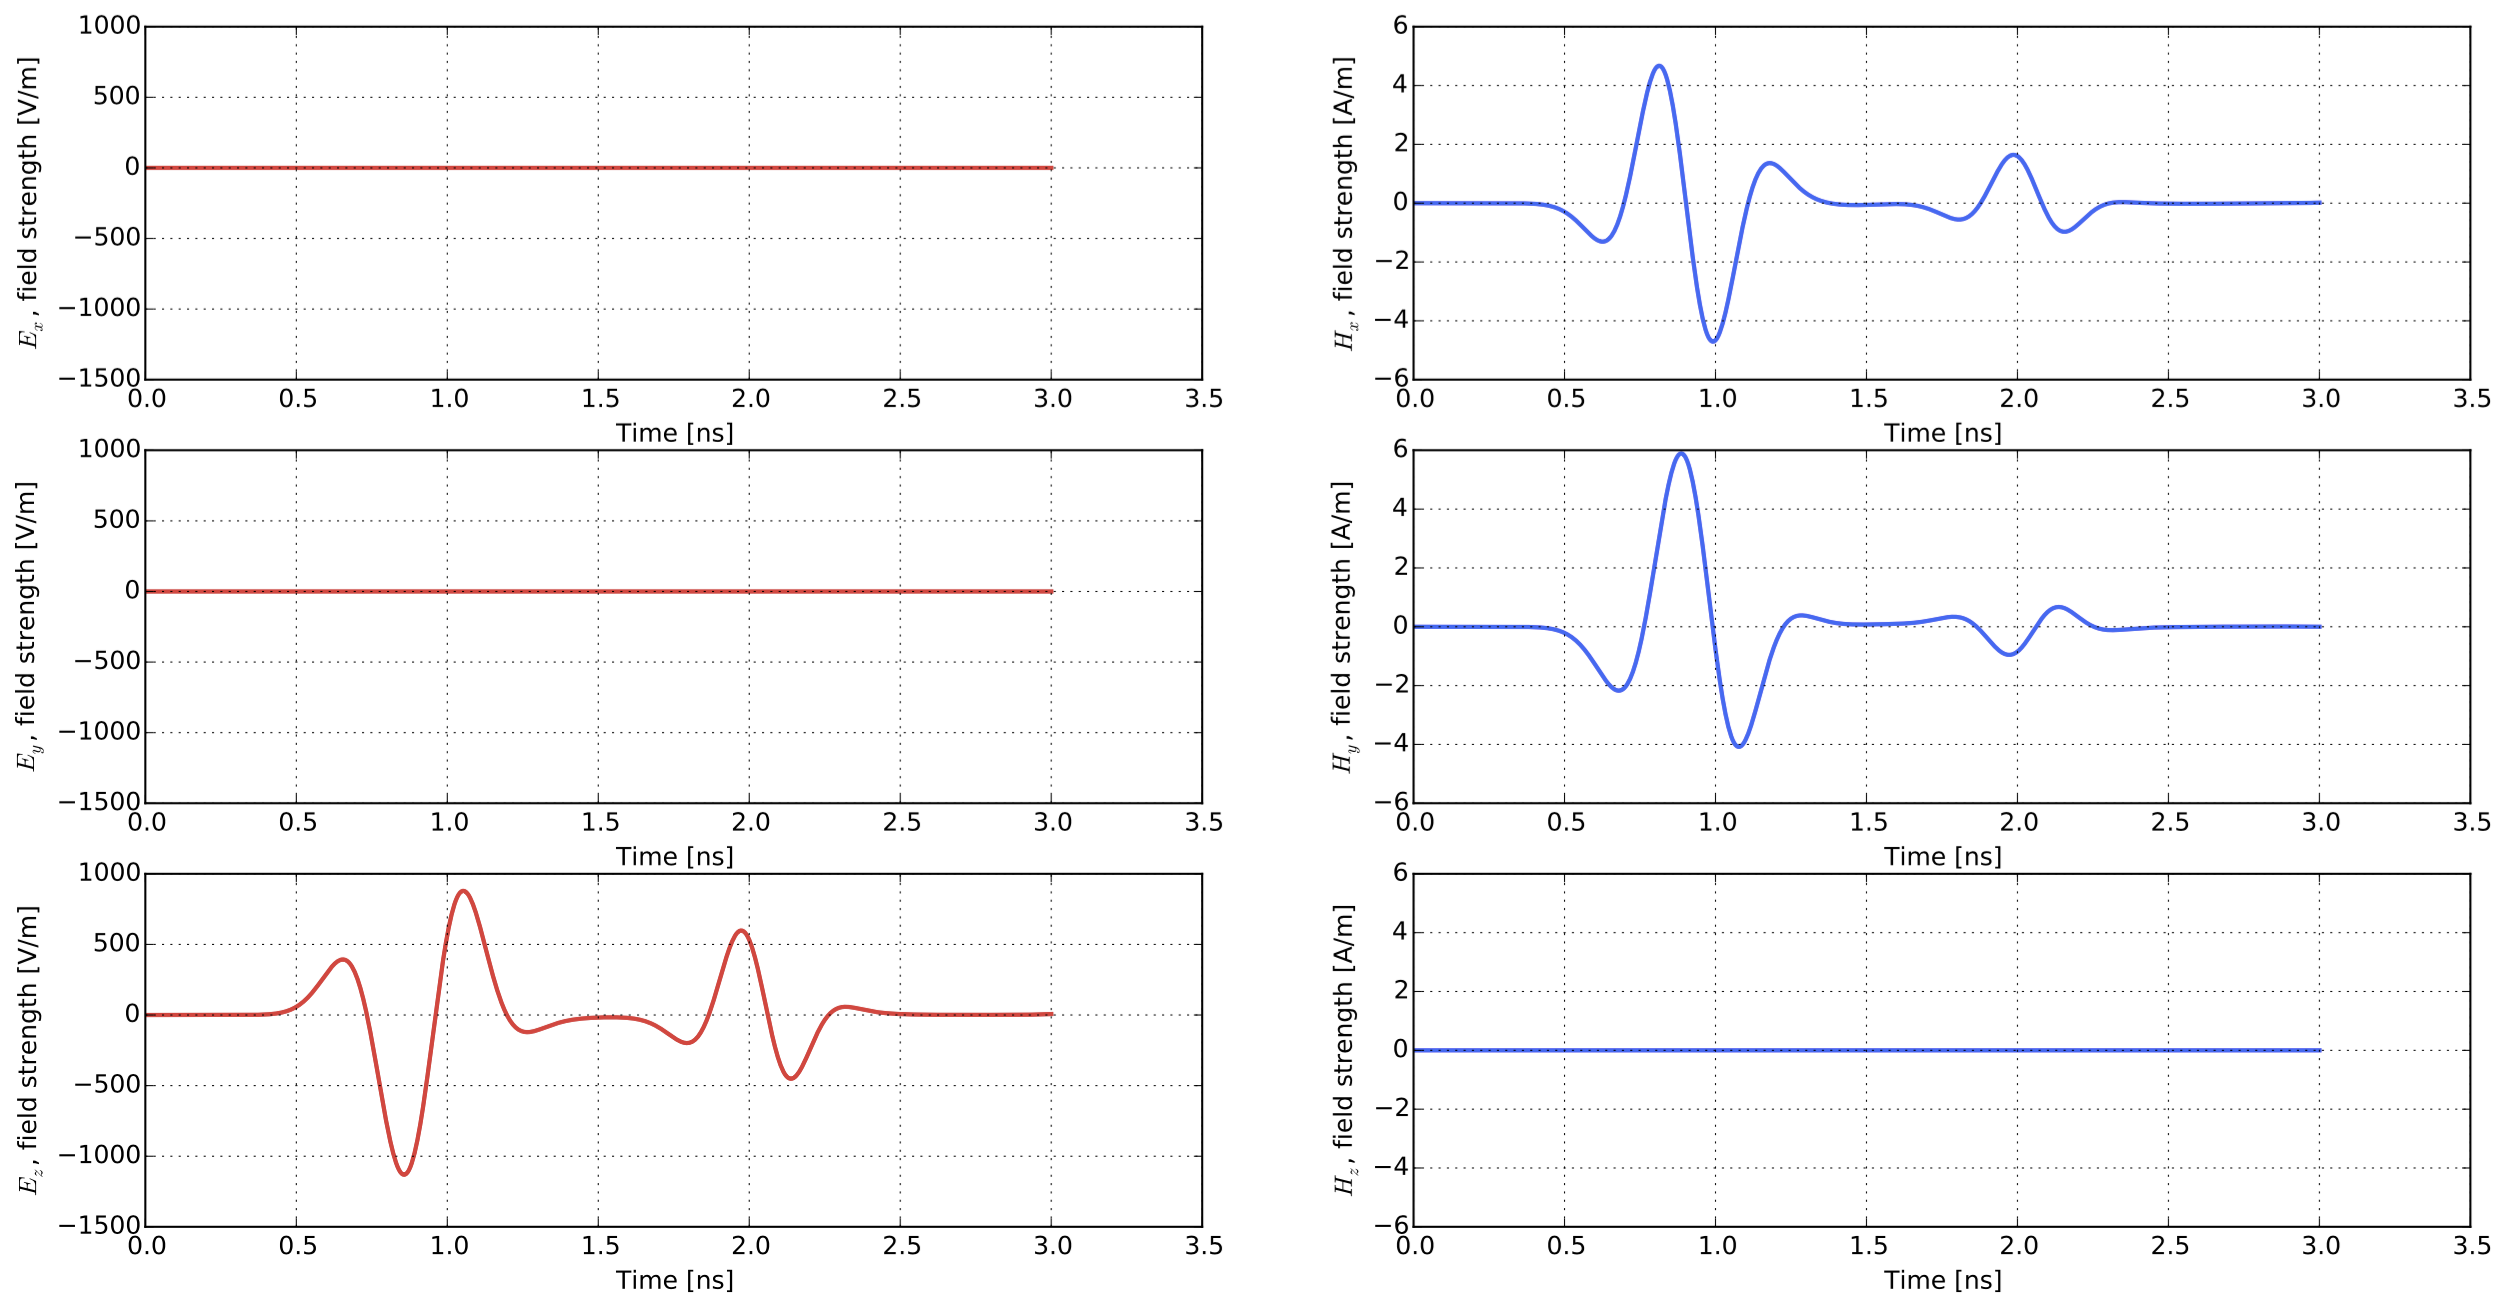
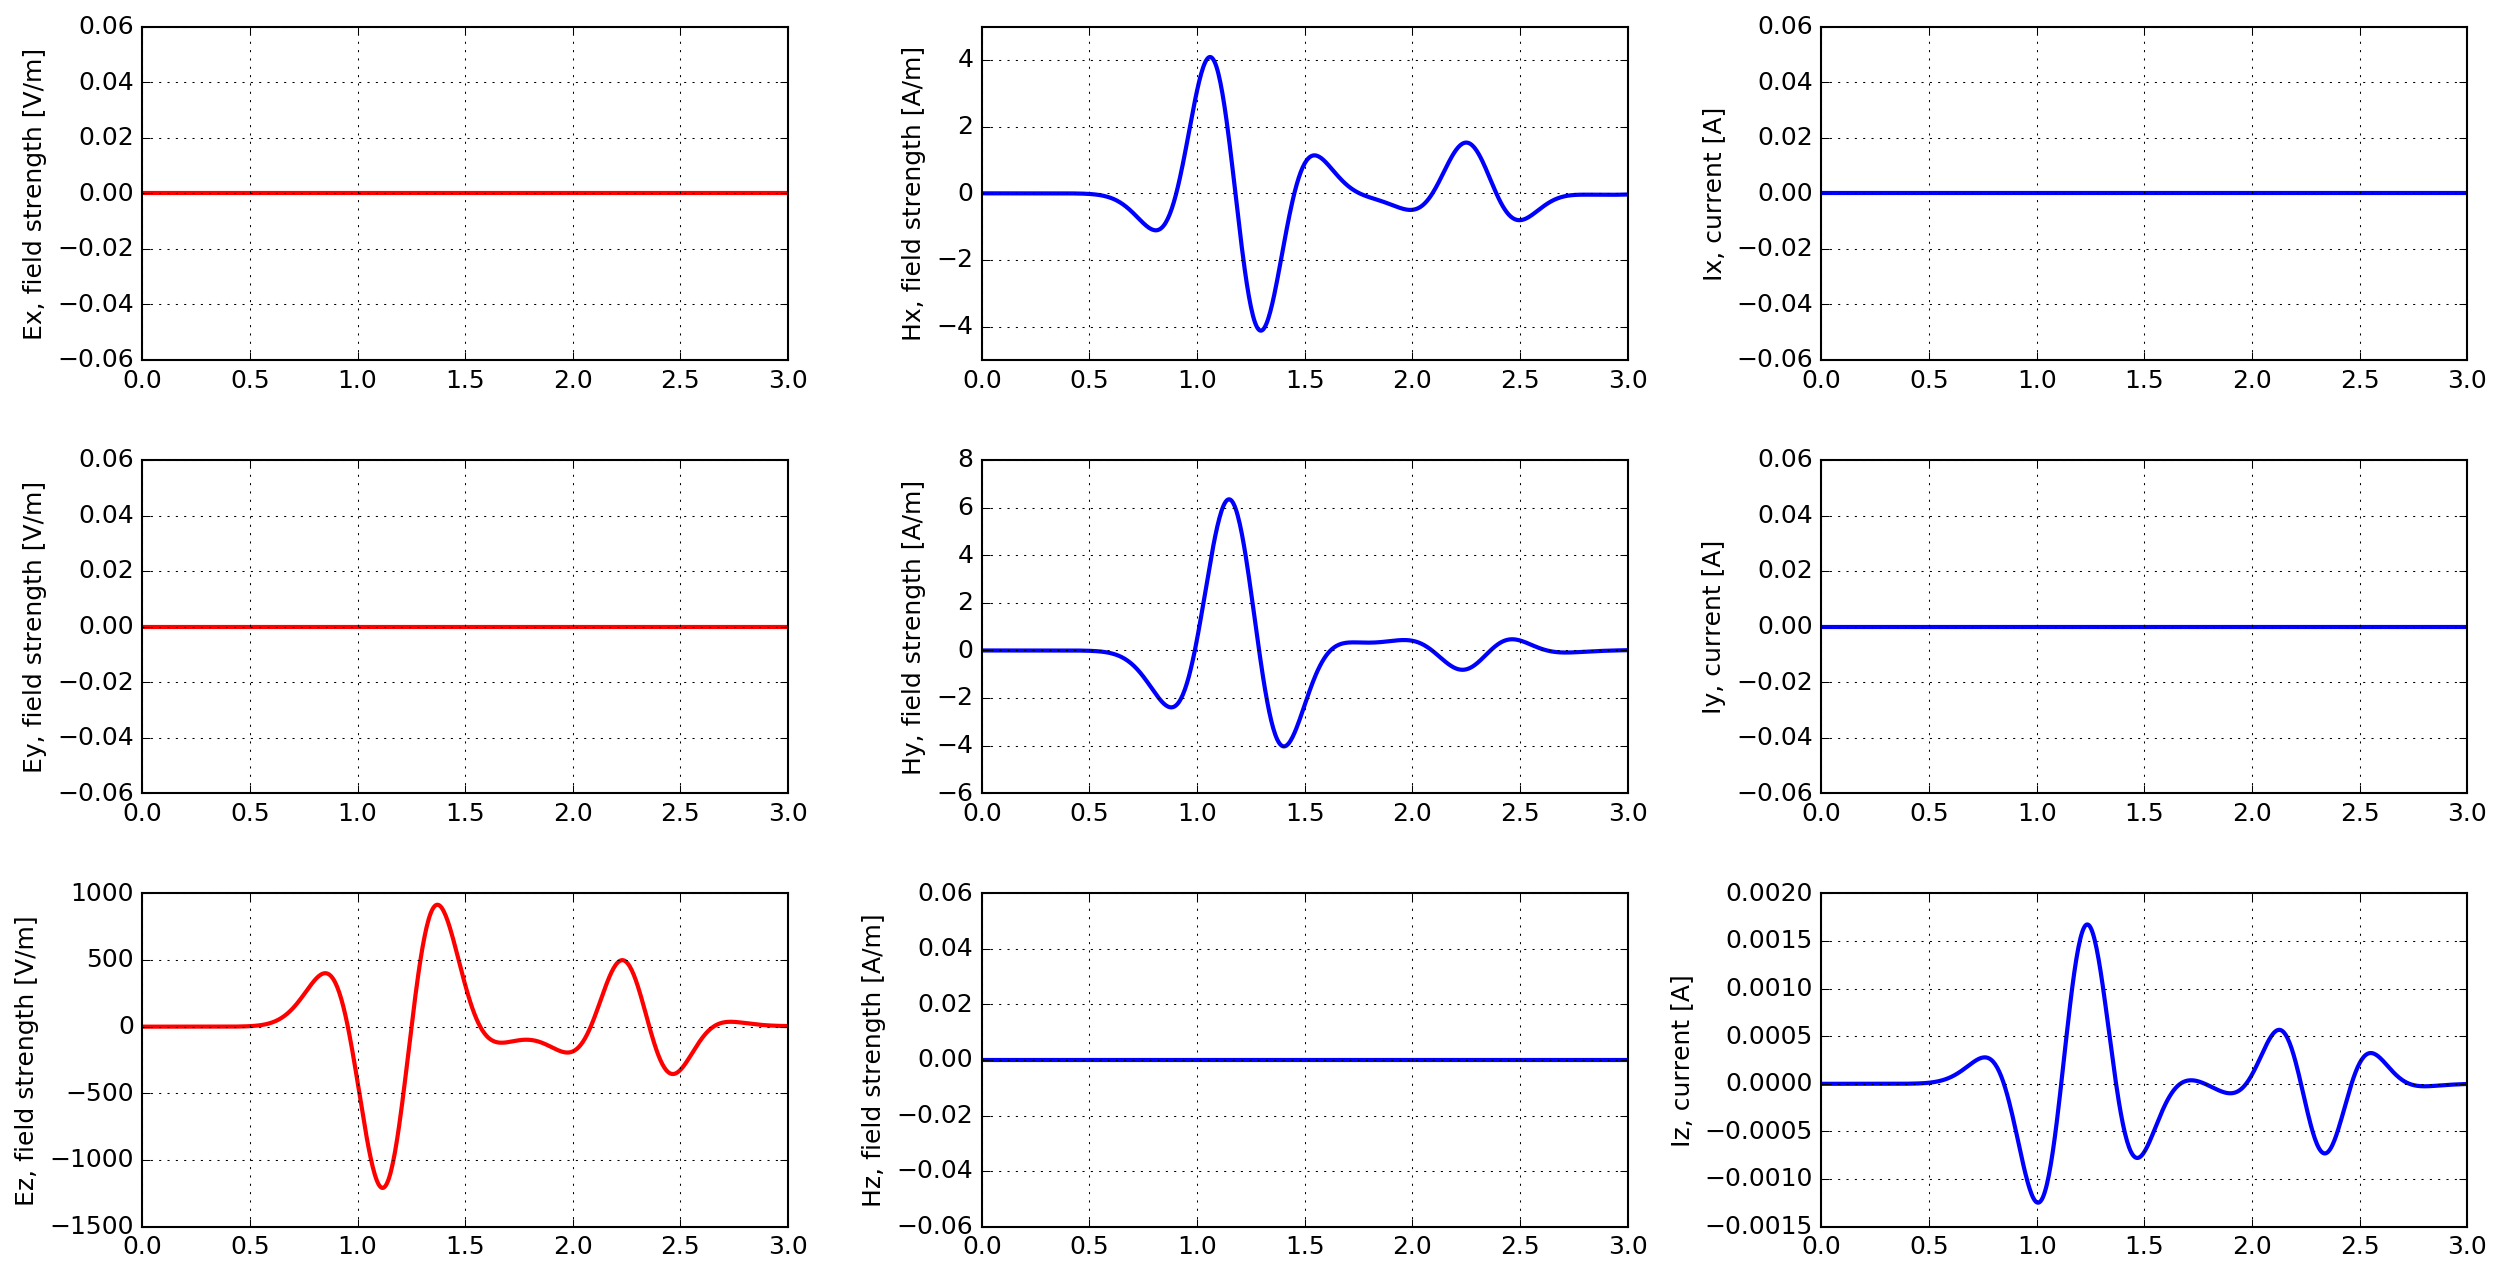
Updated example plot of A-scan to include currents.

diff --git a/docs/source/examples_simple_2D.rst b/docs/source/examples_simple_2D.rst
@@ -121,7 +121,7 @@ You should have produced an output file ``cylinder_Ascan_2D.out``. You can view 
 
     python -m tools.plot_Ascan cylinder_Ascan_2D.out
 
-:numref:`cylinder_Ascan_results` shows the time history of the electric and magnetic field components at the receiver location. The :math:`E_z` field component can be converted to voltage which represents the A-scan (trace). The initial part of the signal (<1.5 ns) represents the direct wave from transmitter to receiver. Then comes the reflected wavelet from the metal cylinder.
+:numref:`cylinder_Ascan_results` shows the time history of the electric and magnetic field components and currents at the receiver location. The :math:`E_z` field component can be converted to voltage which represents the A-scan (trace). The initial part of the signal (<1.5 ns) represents the direct wave from transmitter to receiver. Then comes the reflected wavelet from the metal cylinder.
 
 .. _cylinder_Ascan_results:
 
@@ -168,7 +168,7 @@ You can now view an image of the B-scan using the command:
 
     python -m tools.plot_Bscan cylinder_Bscan_2D_all.out --field Ez
 
-:numref:`cylinder_Bscan_results` shows the B-scan (image of the Ez field). As expected a hyperbolic response is present from the metal cylinder.
+:numref:`cylinder_Bscan_results` shows the B-scan (image of the :math:`E_z` field component). As expected a hyperbolic response is present from the metal cylinder.
 
 .. _cylinder_Bscan_results:
 
